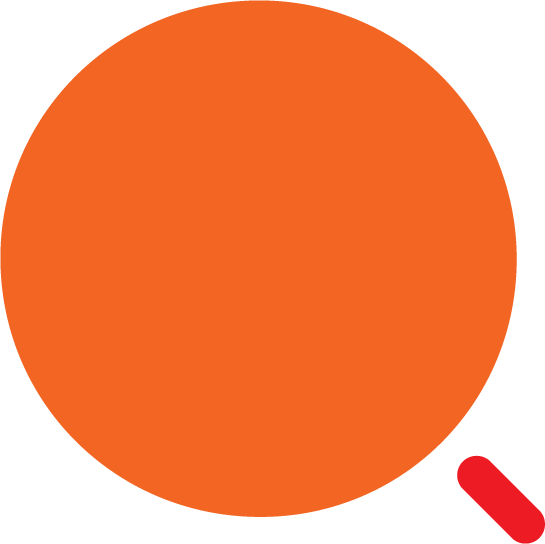
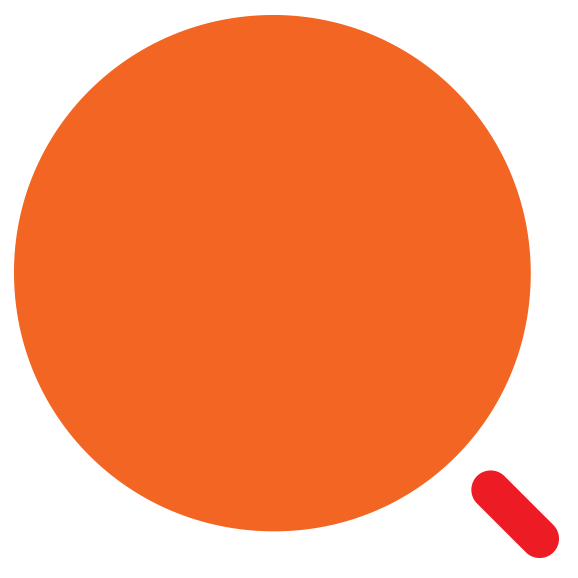
remove style from search

diff --git a/Frontend/src/app/components/products-area/products-form/products-form.component.ts b/Frontend/src/app/components/products-area/products-form/products-form.component.ts
@@ -25,8 +25,8 @@ export class ProductsFormComponent implements OnInit {
     categoryID : [0, [Validators.required]],
     price : [1, [Validators.required, Validators.min(1)]],
     description : ['', [Validators.required, Validators.minLength(2), Validators.maxLength(100)]],
-    weight : [1, [Validators.required, Validators.min(1)]],
-    weightType : [WeightModel.kg, [Validators.required]]
+    weight : [0, [ Validators.min(0), Validators.required]],
+    weightType : ['']
   })
 
   public file: File;
@@ -80,15 +80,15 @@ export class ProductsFormComponent implements OnInit {
       formData.append('categoryID', this.productsForm.value.categoryID.toString())
       formData.append('price', this.productsForm.value.price.toString())
       formData.append('description', this.productsForm.value.description)
-      formData.append('weight', this.productsForm.value.weight.toString())
+      formData.append('weight', this.productsForm.value.weight?.toString())
       formData.append('weightType', this.productsForm.value.weightType)
-      formData.append('imageName', this.productsService.products[this.editedItemIndex].imageName)
 
       if(this.file){
         formData.append('image', this.file);
       }
 
       if(this.editMode){        
+        formData.append('imageName', this.productsService.products[this.editedItemIndex].imageName)
         formData.append('productID', this.productsService.products[this.editedItemIndex].productID.toString() );
         await this.productsService.updateProduct(formData, this.productsService.products[this.editedItemIndex].productID);
         this.toast.success('Product Edited Successfully')

diff --git a/Frontend/src/app/components/products-area/search-products/search-products.component.html b/Frontend/src/app/components/products-area/search-products/search-products.component.html
@@ -1,7 +1,5 @@
-<mat-form-field class="example-form-field">
-    <mat-label>Search Products</mat-label>
+<form (onSubmit)="search()" *ngIf="visibility()" class="example-form-field">
     <input 
-        matInput 
         type="text" 
         [(ngModel)]="input"
         pattern="([a-z]{1,7})"
@@ -9,34 +7,14 @@
    
 
     <button 
-    matSuffix
-        (click)="orderService.search = input"
-        *ngIf="visibility() === 'order' && input"
+        (click)="search()"
         type="submit"
-        mat-icon-button
+        
     >
-        <mat-icon>search</mat-icon>
+        s
     </button>
 
-    
-     <button 
-        matSuffix 
-        *ngIf="visibility() === 'products' && input" 
-        matSuffix 
-        mat-icon-button 
-        aria-label="Clear" 
-        (click)="input=''"
-    >
-      <mat-icon>close</mat-icon>
-    </button>
-    
-    <a 
-        matSuffix
-        mat-icon-button
-        *ngIf="visibility() === 'products' && input"
-        [routerLink]="[]" 
-        [queryParams]="{ 'search': input }"
-    ><mat-icon>search</mat-icon></a>
-  </mat-form-field>
+
+</form>
 
  

diff --git a/Frontend/src/app/components/products-area/search-products/search-products.component.ts b/Frontend/src/app/components/products-area/search-products/search-products.component.ts
@@ -33,23 +33,17 @@ export class SearchProductsComponent {
         return ;
       }      
       await this.productsService.getProductsByName( this.input );
-    } catch (error : any) {
-      console.log("hi");
-      
+    } catch (error : any) {      
       this.toast.error(error)
     }
   }
 
-  public visibility(): string | null {
+  public visibility(): boolean {
     
-    if(this.router.url === '/order'){
-      return 'order';
+    if(this.router.url === '/order' || this.router.url.search('products') !== -1){
+      return true;
     }
     
-    if (this.router.url.search('products') !== -1) {
-      return 'products';
-    }
-
-    return null;
+    return false;
   }
 }

diff --git a/Backend/src/4-models/product-models/product-model.ts b/Backend/src/4-models/product-models/product-model.ts
@@ -34,8 +34,8 @@ export default class ProductModel{
         image: Joi.object().optional(),
         imageName: Joi.string().optional(),
         description: Joi.string().min(2).max(100).required(),
-        weight: Joi.number().positive().required(),
-        weightType: Joi.valid(...Object.values(WeightModel)).required()
+        weight: Joi.number().min(0).required(),
+        weightType: Joi.valid(...Object.values(WeightModel), '').required()
     })
 
     public validation():string{

diff --git a/Frontend/src/app/components/layout-area/header/header.component.html b/Frontend/src/app/components/layout-area/header/header.component.html
@@ -1,6 +1,9 @@
 <header>
-    <a routerLink="/products"><h1>Shopping Online</h1></a>
-    
-    <app-auth-menu></app-auth-menu>
+    <div class="header">
+        <a routerLink="/products"><img src="../../../../assets/Foodish_Logo.png" alt=""></a>
     <app-search-products  *ngIf="auth.isLoggedIn()"></app-search-products>
+
+    <app-auth-menu></app-auth-menu>
+    </div>
+    <app-categories></app-categories>
 </header>

diff --git a/Frontend/src/app/components/layout-area/header/header.component.css b/Frontend/src/app/components/layout-area/header/header.component.css
@@ -1,15 +1,17 @@
-header {
+.header {
     height: 17vh;
     position: sticky;
     top: 0;
     display: flex;
-    flex-direction: column;
     align-items: center;
-    background-color: #F5E3C8;
-    border-bottom: 2px solid var(--border-color);
+    background-color: #E8E8E8;
     z-index: 9;
 }
 
 h1  {
     text-shadow: 3px 4px 5px rgba(56, 56, 56, 0.341);
+}
+
+img {
+    width: 20vw;
 }

diff --git a/Frontend/src/app/components/products-area/products-form/products-form.component.html b/Frontend/src/app/components/products-area/products-form/products-form.component.html
@@ -44,7 +44,7 @@
 
                 <mat-form-field appearance="fill">
                     <mat-label>Weight </mat-label>
-                    <input min="1" matInput type="number" formControlName="weight">
+                    <input min="0" matInput type="number" formControlName="weight">
                 </mat-form-field>
 
                 <mat-form-field appearance="fill">

diff --git a/Backend/src/4-models/product-models/weight-model.ts b/Backend/src/4-models/product-models/weight-model.ts
@@ -1,6 +1,7 @@
 enum WeightModel{
     kilo = "kilo",
-    kg = "kg"
+    kg = "kg",
+    gram = "gram"
 }
 
 export default WeightModel;

diff --git a/Frontend/src/app/models/product-models/weight-model.ts b/Frontend/src/app/models/product-models/weight-model.ts
@@ -1,6 +1,7 @@
 enum WeightModel{
     kilo = "kilo",
-    kg = "kg"
+    kg = "kg",
+    gram = "gram"
 }
 
 export default WeightModel;
